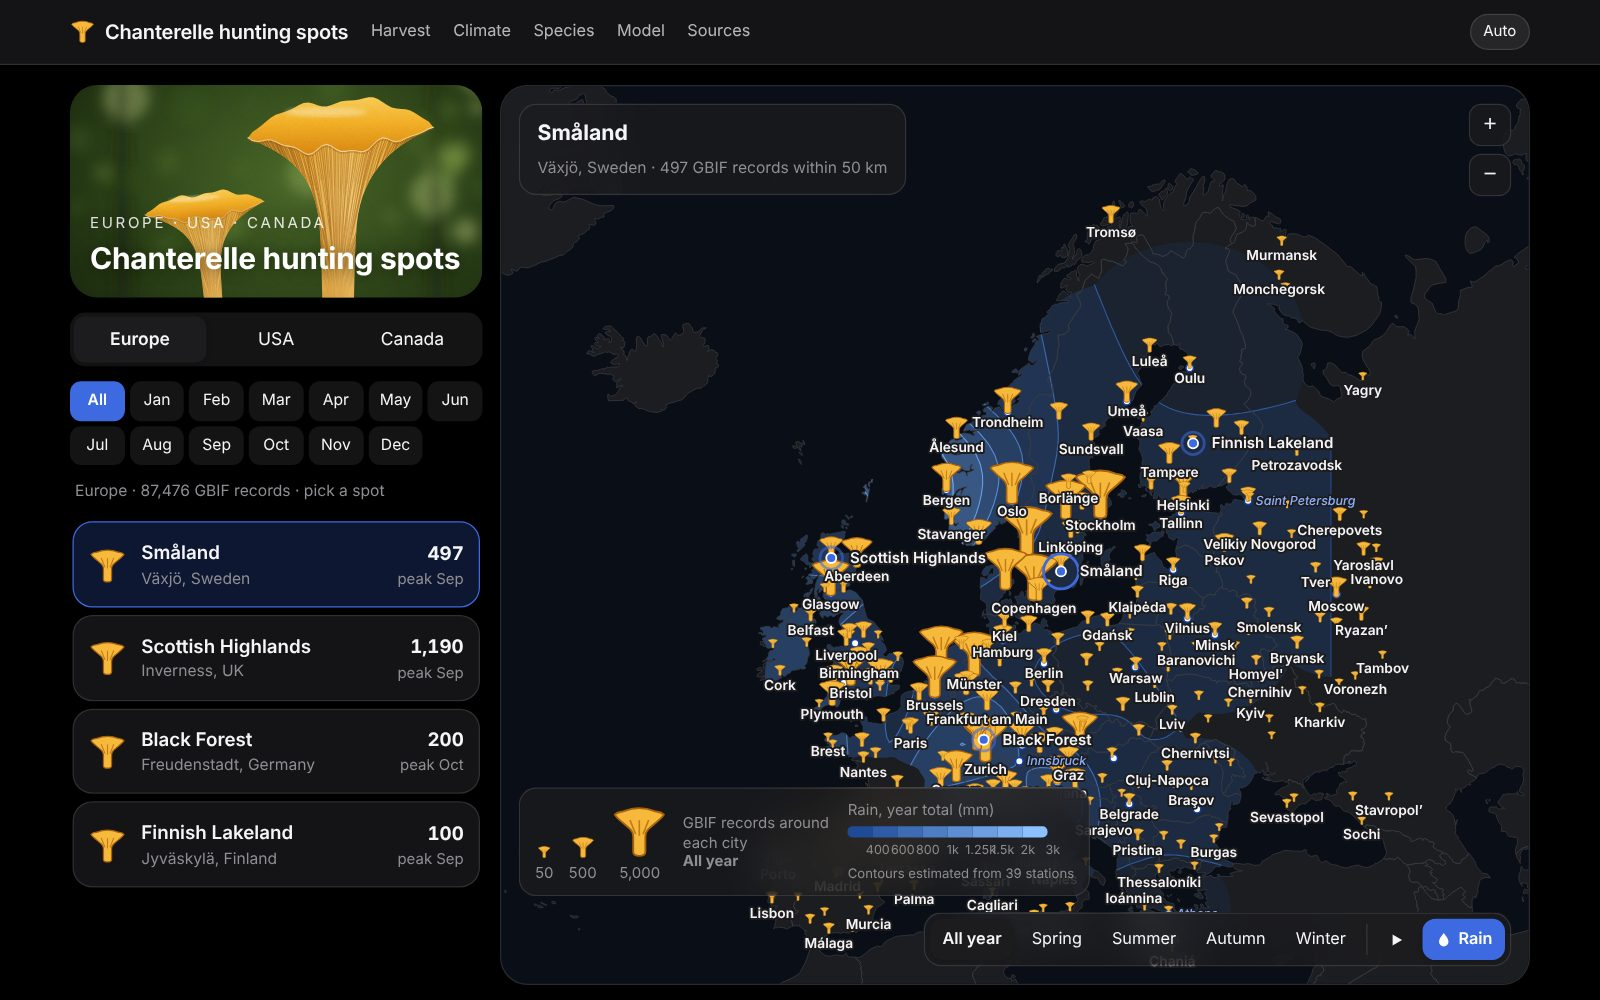
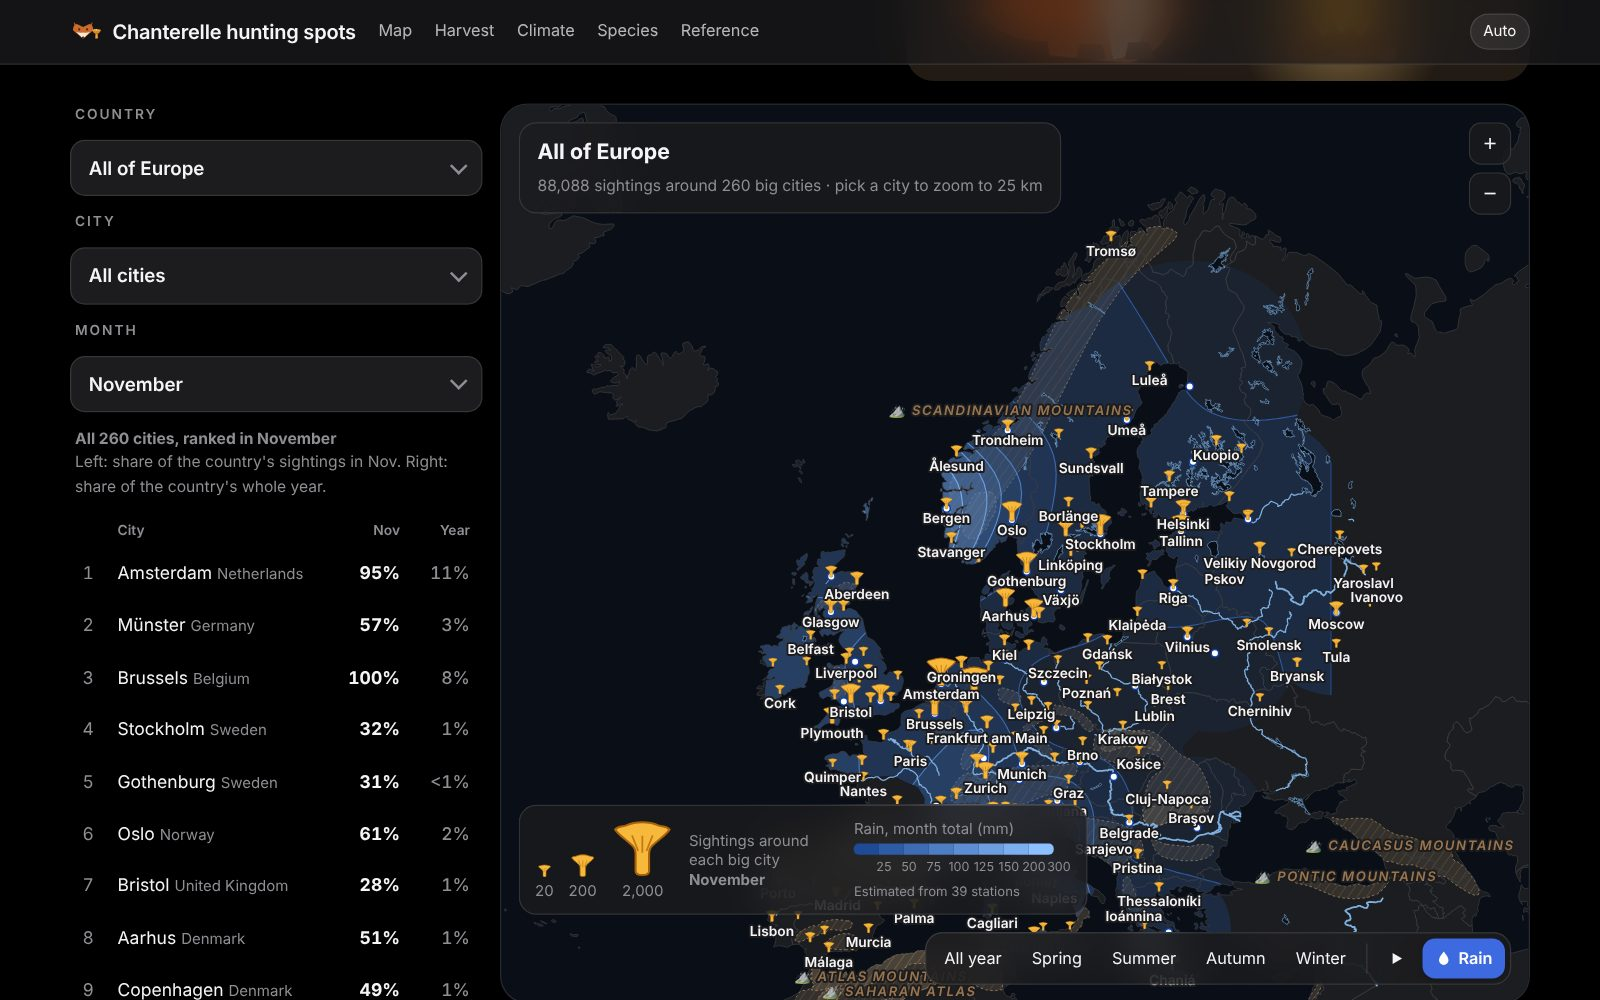
Update Chanterelle card and page for v1.2
The chanterelle map moved to v1.2: country / city / month pickers, cities
of 150,000+ people, and record totals that now match the full grid
(about 113,000). Refresh the card images, the counts and the San Jose
winter peak so the project page matches the live map.

Claude-Session: https://claude.ai/code/session_014aetD9AdwFasu3XjMbioTo

diff --git a/projects/chanterelle-hunting-spots.md b/projects/chanterelle-hunting-spots.md
@@ -13,7 +13,7 @@ The map answers that from public records: where and in which month people logged
 
 ## Data
 
-- **Records**: GBIF.org occurrence records for the genus *Cantharellus* (taxonKey 9623860), about 112,000 across Europe (87,476), the USA (22,532) and Canada (2,073), counted in 1° × 1.5° grid cells (about 110 km) with a month breakdown. Each cell is credited to the largest city of 40,000+ people within about 110 km.
+- **Records**: GBIF.org occurrence records for the genus *Cantharellus* (taxonKey 9623860), about 113,000 across Europe (88,088), the USA (22,956) and Canada (2,093), counted in 1° × 1.5° grid cells (about 110 km) with a month breakdown. Each cell is credited to the largest city of 150,000+ people (60,000+ in Canada) within about 110 km.
 - **Rain contours**: monthly normals from 86 weather stations (mostly 1991–2020), blended by distance (about 180 km reach) and left blank beyond 450 km from a station.
 - **Spot climate**: one weather station per highlighted spot, from Wikipedia climate tables (national weather services).
 
@@ -22,12 +22,12 @@ Records show where people found and logged chanterelles, so busy areas also refl
 ## What the data shows
 
 - Europe peaks in **August–September**; the USA overall in **July–August**.
-- Coastal California runs the other way: the Santa Cruz Mountains peak in **January**.
+- Coastal California runs the other way: records around San Jose peak in **January**.
 - Monthly charts per spot put rain, temperature and records on one axis, so the lag between wet months and fruiting is easy to see.
 
 ## Design
 
-- **Map first**: one mushroom per city, sized by records, with a month and season picker and blue rain bands. Tap a spot for its numbers.
+- **Map first**: one mushroom per big city, sized by records. Pick a country, a city and a month and the map zooms to the 25 km around it, with rivers, mountains and blue rain bands.
 - **Harvest outlook**: an illustrated fox fills a net bag with the chosen month's records; the bag is full in the busiest month.
 - **Climate × Fruiting**: Apache ECharts bars and lines per spot.
 - Light and dark themes in the same Apple-style look as this site. The page is a single HTML file that also works offline.
